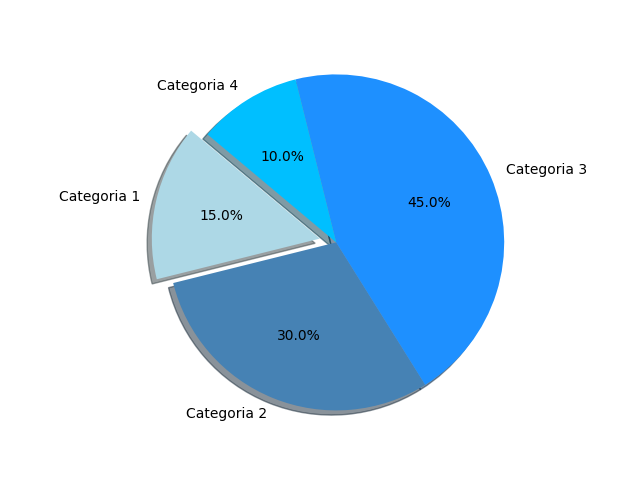
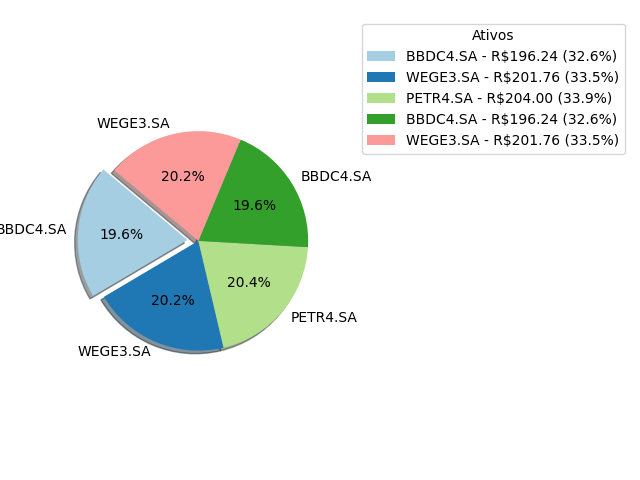
add seaborn to requirements; enhance results page layout and integrate SweetAlert for user notifications

diff --git a/app/templates/results.html b/app/templates/results.html
@@ -27,21 +27,18 @@
 
     <div class="result-cards">
         <div class="result-type-card">
-            <p class="result-type-card-text">Previsão de retorno</p>
-            <img class="result-forecast-graph" src="{{url_for('static', filename=forecast_plot_url)}}" />
-            <p class="result-type-card-subtext">Esse gráfico ilustra o retorno esperado durante o próximo ano baseado na análise atual de mercado.</p>
+            <p class="result-type-card-text">Distribuição do Portfólio</p>
+            <img class="result-forecast-graph" src="../static/plots/dist_plot.png" title="Esse gráfico de setores mostra a alocação dos recursos distribuida entre diferentes categorias no seu portfólio."/>
         </div>
 
         <div class="result-type-card">
-            <p class="result-type-card-text">Distribuição do Portfólio</p>
-            <img class="result-forecast-graph" src="{{url_for('static', filename=distribution_plot_url)}}" />
-            <p class="result-type-card-subtext">Esse gráfico de setores mostra a alocação dos recursos distruibo entre diferentes categorias no seu portfólio.</p>
+            <p class="result-type-card-text">Drawdown</p>
+            <img class="result-forecast-graph" src="../static/plots/plot.png" title="O drawdown é a diferença entre o pico e a queda de um portfólio (ou ativo), e ajuda a visualizar a magnitude da perda de valor do portfólio durante uma crise ou retração."/>
         </div>
 
         <div class="result-type-card">
             <p class="result-type-card-text">Nível de Risco</p>
-            <img class="result-forecast-graph" src="{{url_for('static', filename=risk_plot_url)}}" />
-            <p class="result-type-card-subtext">Uma análise do risco associado com sua configuração de portfólio atual.</p>
+            <img class="result-forecast-graph" src="../static/plots/risk_plot.png" title="Uma análise do risco associado com sua configuração de portfólio atual."/>
         </div>
     </div>
 

diff --git a/app/static/js/index.js b/app/static/js/index.js
@@ -20,8 +20,26 @@ function handleCalculateInvestment() {
     let investmentType = document.querySelector("#investment-type-stocks:checked").value;
     let investmentInterest = document.querySelector("#investments").value.split(",").map(item => item.trim()).filter(item => item);
     let investmentRisk = document.querySelector('input[name="risk"]:checked').value;
-    alert(investmentType + " " + investmentAmount + " " + investmentInterest + " " + investmentRisk);
 
+    let timerInterval;
+
+    Swal.fire({
+        title: "Olá, tudo bem?",
+        html: "Por favor aguarde <b></b> segundos enquanto nosso sistema faz alguns cálculos!",
+        timer: 3000, 
+        timerProgressBar: true,
+        didOpen: () => {
+            Swal.showLoading();  // Exibe o carregamento
+            const timer = Swal.getPopup().querySelector("b");
+            timerInterval = setInterval(() => {
+                timer.textContent = `${(Swal.getTimerLeft() / 1000).toFixed(2)}`;
+            }, 100);
+        },
+        willClose: () => {
+            clearInterval(timerInterval); 
+        }
+    });
+    
     fetch('/calcular-risco', {
         method: 'POST',
         headers: {
@@ -33,8 +51,15 @@ function handleCalculateInvestment() {
             investmentInterest,
             investmentRisk
         })
-    }).then(response => response.json())
-    .then(data => {
-        console.log(data)
     })
+    .then(response => response.json()) 
+    .then(data => {
+        Swal.close(); 
+        window.location = '/results'; 
+    })
+    .catch(error => {
+        Swal.close();
+        console.error("Erro ao calcular risco:", error); 
+        Swal.fire('Erro!', 'Houve um problema ao processar os dados. Tente novamente mais tarde.', 'error');
+    });
 }

diff --git a/app/static/css/results.css b/app/static/css/results.css
@@ -27,6 +27,9 @@
     font-weight: 600;
     line-height: 24px;
     margin-top: 10px;
+    display: flex;
+    justify-content: center;
+    align-items: center;
 }
 
 .result-type-card-sub-text {
@@ -44,7 +47,7 @@
 }
 
 .result-forecast-graph {
-    width: 70%;
-    height: 70%;
-    object-fit: contain;
+    width: 100%;
+    height: 90%;
+    object-fit: scale-down;
 }

diff --git a/app/templates/index.html b/app/templates/index.html
@@ -89,5 +89,6 @@
     <link rel="stylesheet" href="../static/css/card.css" />
     <link rel="stylesheet" href="../static/css/risks.css" />
     <script src="../static/js/index.js"></script>
+    <script src="https://cdn.jsdelivr.net/npm/sweetalert2@11"></script>
 </body>
 </html>

diff --git a/app/utils.py b/app/utils.py
@@ -1,5 +1,8 @@
 import numpy as np
 import matplotlib
+import yfinance as yf
+
+import seaborn as sns
 
 matplotlib.use('Agg')
 
@@ -7,16 +10,53 @@ import matplotlib.pyplot as plt
 from datetime import datetime
 import os
 
-def create_forecast_plot():
-    # Dados fictícios
-    x = [1, 2, 3, 4, 5, 6, 7]
-    y1 = [3, 5, 2, 5, 7, 9, 8]
-    y2 = [1, 2, 1, 3, 4, 5, 3]
+def create_forecast_plot(melhor_portfolio):
+    ativos = [ativo["Ativo"] for ativo in melhor_portfolio["Portfolio"]]
+    alocacao = melhor_portfolio["alocacao"]
+    
+    # Baixar os preços históricos dos ativos
+    precos = {}
+    for ativo in ativos:
+        try:
+            precos[ativo] = yf.download(ativo, period="1y")['Adj Close'].values
+        except Exception as e:
+            print(f"Erro ao baixar dados para o ativo {ativo}: {e}")
+            precos[ativo] = None
+    
+    # Remover ativos que não possuem dados
+    precos = {ativo: preco for ativo, preco in precos.items() if preco is not None}
+    
+    if not precos:
+        raise ValueError("Nenhum dado válido foi encontrado para os ativos.")
+    
+    # Garantir que todas as séries temporais tenham o mesmo comprimento
+    max_len = min(len(preco) for preco in precos.values())
+    precos_align = {ativo: preco[:max_len] for ativo, preco in precos.items()}
 
-    plt.plot(x, y1, color='blue')
-    plt.plot(x, y2, color='lightblue')
-    plt.xticks([])
-    plt.yticks([])
+    # Calcular os retornos diários de cada ativo
+    retornos_diarios = {}
+    for ativo, preco in precos_align.items():
+        retornos_diarios[ativo] = (preco[1:] / preco[:-1] - 1)
+
+    # Calcular o valor do portfólio ao longo do tempo
+    valor_portfolio = np.zeros_like(list(precos.values())[0][1:])
+    for i, ativo in enumerate(ativos):
+        peso = alocacao.get(ativo, 0)
+        valor_portfolio += retornos_diarios[ativo] * peso
+
+    # Calcular o Drawdown
+    valor_maximo = np.maximum.accumulate(valor_portfolio)
+    drawdown = (valor_portfolio - valor_maximo) / valor_maximo
+
+    # Plotar o gráfico de Drawdown
+    plt.figure(figsize=(10, 6))
+    plt.plot(drawdown, label="Drawdown do Portfólio", color='red', linewidth=2)
+    plt.title("Drawdown do Portfólio", fontsize=16)
+    plt.xlabel("Tempo (Dias)", fontsize=12)
+    plt.ylabel("Drawdown", fontsize=12)
+    plt.grid(True, linestyle='--', alpha=0.6)
+    plt.legend()
+    plt.tight_layout()
 
     # Salvar o gráfico em um arquivo temporário com timestamp para evitar conflitos
     timestamp = datetime.now().strftime('%Y%m%d%H%M%S')
@@ -29,18 +69,24 @@ def create_forecast_plot():
     # return f'../static/plots/plot_{timestamp}.png'
     return f'../static/plots/plot.png'
 
-def create_distribution_plot():
-    labels = ['Categoria 1', 'Categoria 2', 'Categoria 3', 'Categoria 4']
-    sizes = [15, 30, 45, 10]
-    colors = ['lightblue', 'steelblue', 'dodgerblue', 'deepskyblue']
-    explode = (0.1, 0, 0, 0)  # Separa a primeira fatia
-
-    # Criar o gráfico de pizza
-    plt.pie(sizes, explode=explode, labels=labels, colors=colors, autopct='%1.1f%%', shadow=True, startangle=140) 
-
-    # Mostrar o gráfico
+def create_distribution_plot(melhor_portfolio):
+    ativos = [ativo["Ativo"] for ativo in melhor_portfolio["Portfolio"]]
+    alocacao = melhor_portfolio["alocacao"]
+    total_investido = sum(alocacao.values())
     
-    plt.axis('equal')  # Para garantir que o círculo seja desenhado como um círculo
+    sizes = [alocacao.get(ativo, 0) for ativo in ativos]
+    colors = plt.cm.Paired.colors[:len(sizes)]  # Usando uma paleta de cores
+
+    # Criando o gráfico de pizza
+    plt.pie(sizes, labels=ativos, autopct='%1.1f%%', startangle=140, colors=colors, shadow=True, explode=(0.1, 0, 0, 0, 0))
+
+    legend_labels = [f'{ativo} - R${alocacao.get(ativo, 0):,.2f} ({alocacao.get(ativo, 0)/total_investido*100:.1f}%)' for ativo in ativos]
+    plt.legend(legend_labels, loc='upper left', fontsize=10, title="Ativos", bbox_to_anchor=(1, 1))
+
+    plt.axis('equal')  # Para garantir que o gráfico fique circular
+
+    plt.tight_layout()
+
     # Salvar o gráfico em um arquivo temporário com timestamp para evitar conflitos
     timestamp = datetime.now().strftime('%Y%m%d%H%M%S')
     # file_path = os.path.join('./app/static', 'plots', f'dist_plot_{timestamp}.png')
@@ -51,33 +97,38 @@ def create_distribution_plot():
     plt.close()  # Fecha o gráfico para liberar a memória
     return f'../static/plots/dist_plot.png'
 
-def create_risk_plot():
-    investments = ['Ações', 'Títulos', 'Imóveis', 'Fundos Mútuos', 'Criptomoedas']
-    risks = [8, 3, 5, 4, 9]  # Escala de risco de 1 a 10
-    returns = [10, 4, 6, 5, 12]  # Retornos esperados em %
+def create_risk_plot(melhor_portfolio):
+    ativos = melhor_portfolio["Portfolio"]
+    risks = [ativo["Volatilidade"] for ativo in ativos]  # Usando volatilidade como risco
+    returns = [ativo["Retorno Médio"] * 100 for ativo in ativos]  # Retorno em % para facilitar a visualização
+    sharpe_ratios = [ativo["Índice de Sharpe"] for ativo in ativos]
 
-    # Configurar o gráfico
+    # Definir diferentes formas para os pontos
+    markers = ['o', 's', '^', 'D', 'v']  # Círculo, Quadrado, Triângulo, Diamante, Triângulo invertido
+    colors = plt.cm.viridis(np.linspace(0, 1, len(ativos)))  # Gerar cores com base no número de ativos
+
+    # Configurando o gráfico de dispersão
     fig, ax = plt.subplots(figsize=(10, 6))
 
-    # Criar gráfico de dispersão para representar risco x retorno
-    scatter = ax.scatter(risks, returns, s=300, c=np.arange(len(investments)), cmap='viridis', edgecolor='black', alpha=0.8)
+    # Criando gráfico de dispersão para cada ativo com diferentes formas
+    for i, ativo in enumerate(ativos):
+        ax.scatter(risks[i], returns[i], s=300, c=[colors[i]], marker=markers[i], label=ativo["Ativo"], edgecolor='black', alpha=0.8)
 
-    # Adicionar rótulos para os pontos
-    for i, investment in enumerate(investments):
-        ax.text(risks[i] + 0.2, returns[i], investment, fontsize=10, ha='left', va='center')
+        # Adicionando rótulo ao lado de cada ponto
+        ax.text(risks[i] + 0.01, returns[i] + 0.5, ativo["Ativo"], fontsize=10, ha='left', va='center')
 
     # Configurar eixos
-    # ax.set_title('Riscos vs Retornos de Investimentos', fontsize=16, fontweight='bold')
-    # ax.set_xlabel('Risco (1-10)', fontsize=12)
-    # ax.set_ylabel('Retorno Esperado (%)', fontsize=12)
+    ax.set_title('Risco vs Retorno de Ativos', fontsize=16, fontweight='bold')
+    ax.set_xlabel('Volatilidade (Risco)', fontsize=12)
+    ax.set_ylabel('Retorno Esperado (%)', fontsize=12)
     ax.grid(True, linestyle='--', alpha=0.6)
 
-    # Adicionar barra de cores para contexto
-    cbar = plt.colorbar(scatter, ax=ax, orientation='vertical')
-    cbar.set_label('Categorias de Investimento', fontsize=12)
+    # Adicionar barra de cores para Sharpe Ratio
+    cbar = plt.colorbar(plt.cm.ScalarMappable(cmap='viridis', norm=plt.Normalize(vmin=min(sharpe_ratios), vmax=max(sharpe_ratios))), ax=ax)
+    cbar.set_label('Índice de Sharpe', fontsize=12)
 
-    # Mostrar gráfico
-    plt.tight_layout()
+    # Legenda personalizada à direita e com mais espaçamento entre itens
+    ax.legend(title="Ativos", fontsize=10, loc='right', bbox_to_anchor=(1, 0.5), labelspacing=1.5)
     
     timestamp = datetime.now().strftime('%Y%m%d%H%M%S')
     # filename = f'risk_plot_{timestamp}.png'

diff --git a/app/routes.py b/app/routes.py
@@ -6,6 +6,8 @@ from .calculations import calcular_risco_ativos, aprofundamento_iterativo, poda_
 
 main = Blueprint('main', __name__)
 
+melhor_portfolio = None
+
 @main.route('/')
 def home():
     user = "Eric"
@@ -13,11 +15,7 @@ def home():
 
 @main.route('/results')
 def about():
-    forecast_plot_path = create_forecast_plot()  
-    distribution_plot_path = create_distribution_plot()
-    risk_plot_path = create_risk_plot()
-
-    return render_template('results.html', forecast_plot_url=forecast_plot_path, distribution_plot_url=distribution_plot_path, risk_plot_url=risk_plot_path)
+    return render_template('results.html')
 
 @main.route('/calcular-risco', methods=['POST'])
 def calcular_risco():
@@ -40,6 +38,9 @@ def calcular_risco():
             })  
     
     melhor_portfolio = aprofundamento_iterativo(investment_amount, investment_risk)
+    create_forecast_plot(melhor_portfolio)  
+    create_distribution_plot(melhor_portfolio)
+    create_risk_plot(melhor_portfolio)
 
     return jsonify({
         "investment_amount": investment_amount,
